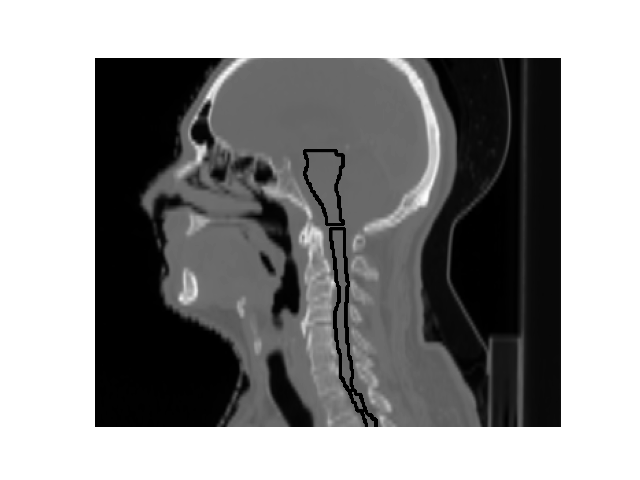
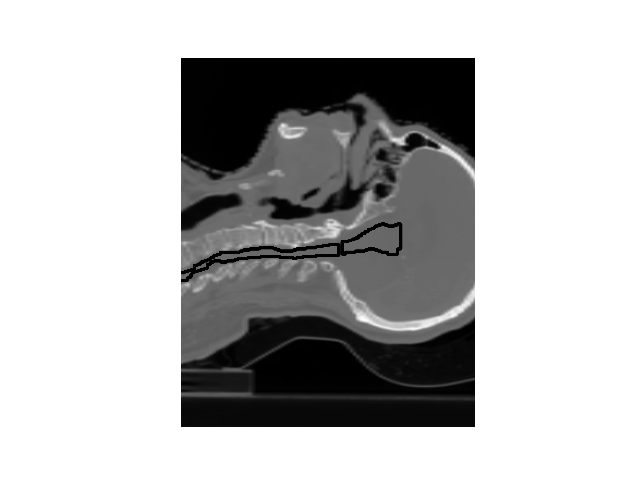
corrected functions

diff --git a/Python Code/CW.py b/Python Code/CW.py
@@ -19,10 +19,10 @@ def import_double_orientate(file):
     img = skimage.io.imread(file)
     file1 = np.double(img)
     # transpose - switch x and y dimensions
-    #transpose_image = np.transpose(file1)
+    transpose_image = np.transpose(file1)
     # flip along second dimension - top to bottom
-    #flipped_image = np.flip(transpose_image, 1)
-    return file1
+    flipped_image = np.flip(transpose_image, 1)
+    return flipped_image
 
 #%%
 # write overlay function
@@ -101,17 +101,35 @@ atlas_list = ['atlas_1.png','atlas_2.png','atlas_3.png','atlas_4.png','atlas_5.p
 test_list = ['test_1.png','test_2.png','test_3.png','test_4.png','test_5.png']
 
 #%%
+#write file import function
+def import_gray(file):
+    ''' 
+    function to import, double, and reorientate IN GRAYSCALE
+    PARAMS:
+    INPUT:  file:   image
+    OUTPUT: file:   image
+    '''
+    img = skimage.io.imread(file, as_gray=True)
+    file1 = np.double(img)
+    # transpose - switch x and y dimensions
+    transpose_image = np.transpose(file1)
+    # flip along second dimension - top to bottom
+    flipped_image = np.flip(transpose_image, 1)
+    return flipped_image
+#%%
 from demonsReg import demonsReg
 
 n = 0
 while n<len(tune_list):
     #display the overlaid tuning image
     f_t_name = tune_list[n]
-    tune_img = skimage.io.imread(f_t_name)
+    tune_img = import_gray(f_t_name)
+    #dispImage(tune_img)
     while n<len(atlas_list):
         # display overlaid atlas image
         f_a_name = atlas_list[n]
-        atlas_img = skimage.io.imread(f_a_name)
+        atlas_img = import_gray(f_a_name)
+     #   dispImage(atlas_img)
 
         # demons reg
         demonsReg(atlas_img, tune_img)
@@ -125,4 +143,5 @@ while n<len(tune_list):
         # next loop
         n = n + 1
     n = n + 1
+
 # %%
